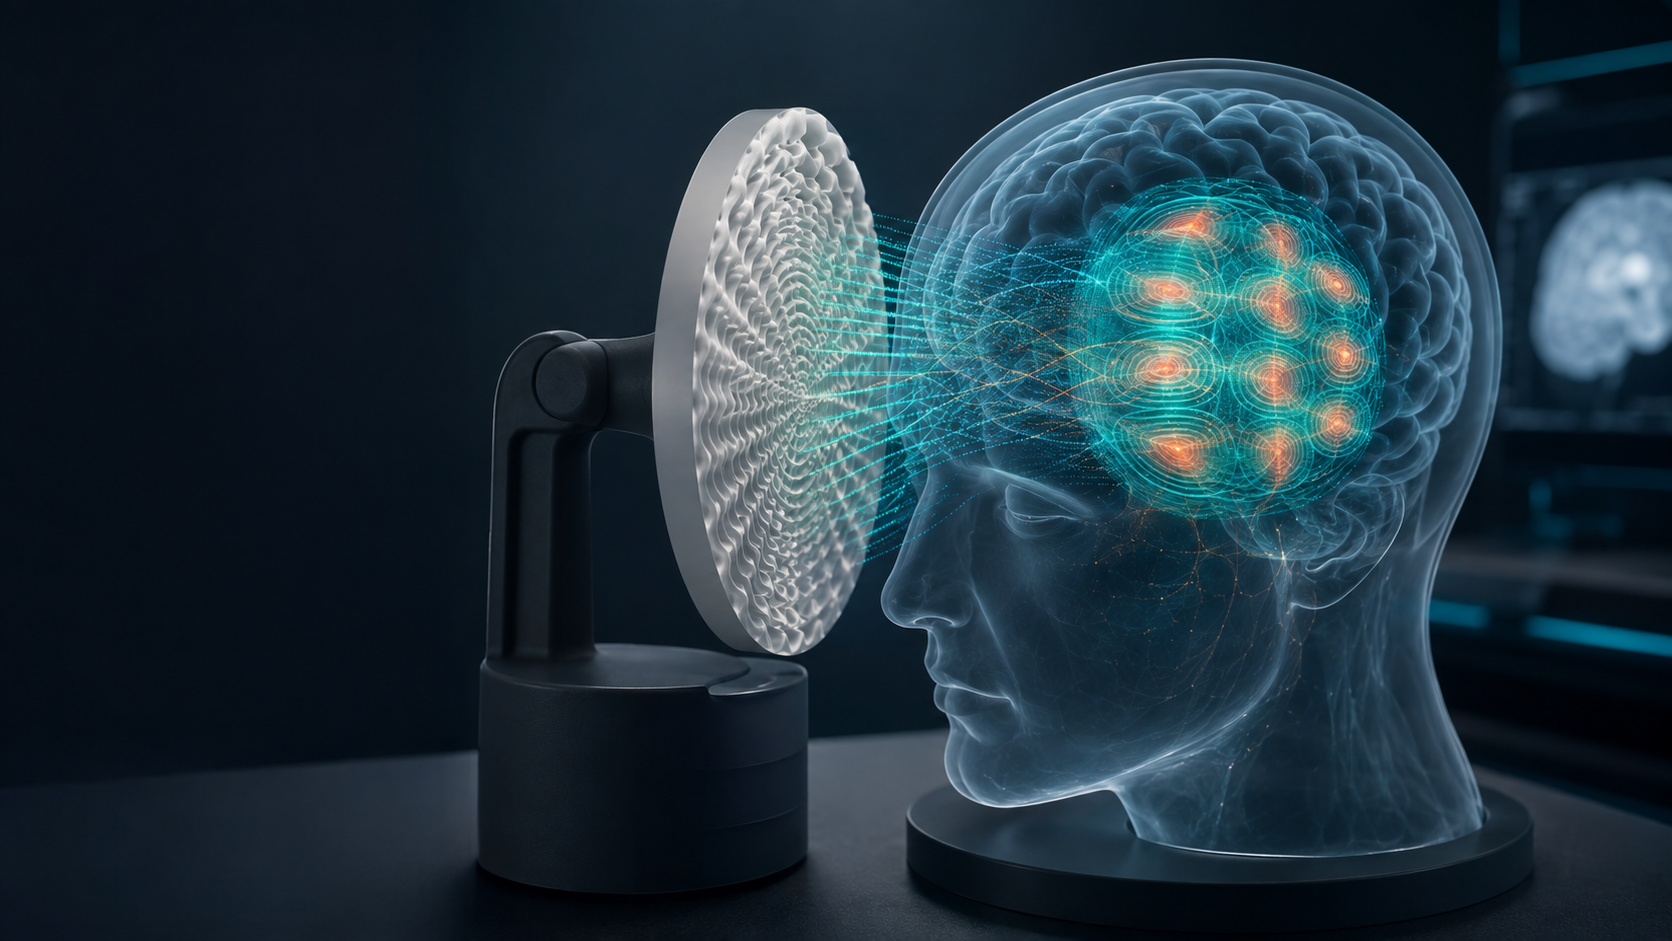
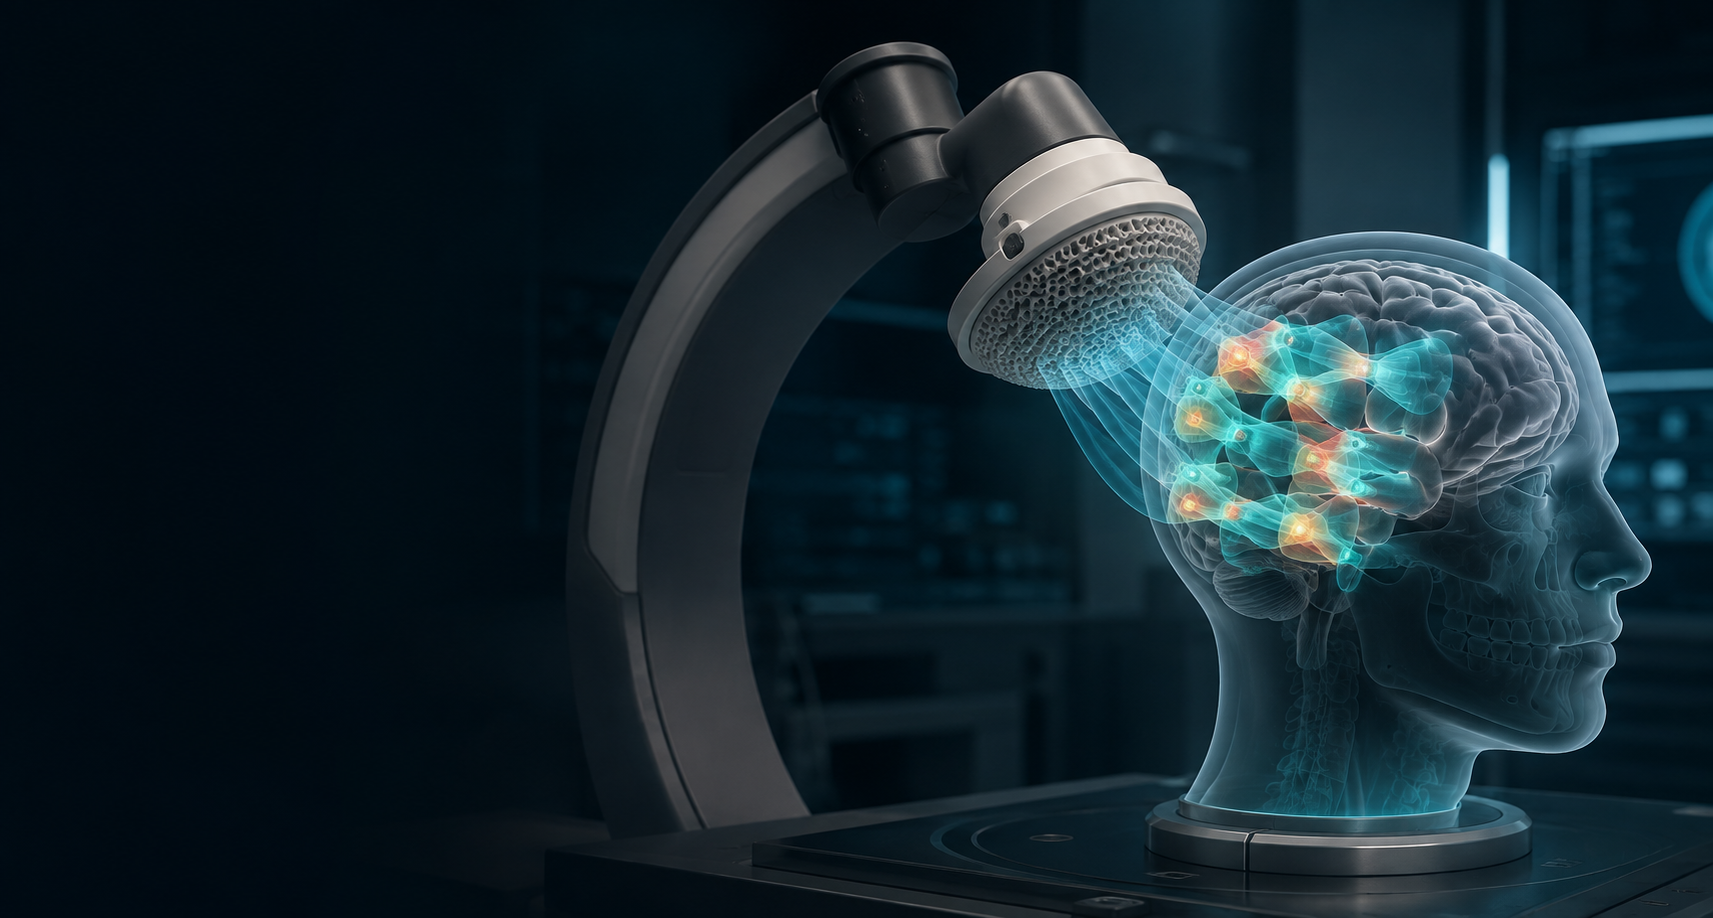
Add funding evidence and roadmap visuals

diff --git a/index.html b/index.html
@@ -72,6 +72,10 @@
             <p>of therapeutics may fail to effectively reach the brain because of the blood-brain barrier.</p>
           </div>
           <div>
+            <span class="metric">$5M+</span>
+            <p>in NIH and NSF funding has supported the scientific foundation behind the platform.</p>
+          </div>
+          <div>
             <span class="metric">Lens-led</span>
             <p>acoustic hologram architecture supports precise volumetric energy shaping.</p>
           </div>
@@ -123,6 +127,33 @@
             </p>
           </article>
         </div>
+        <figure class="platform-figure" aria-label="Schematic of lens-led holographic ultrasound workflow">
+          <svg viewBox="0 0 1100 360" role="img" aria-labelledby="platform-figure-title">
+            <title id="platform-figure-title">Acoustic hologram lens shapes distributed fields through the skull</title>
+            <defs>
+              <linearGradient id="fieldGradient" x1="0%" x2="100%" y1="0%" y2="0%">
+                <stop offset="0%" stop-color="#25c7ba" stop-opacity="0.12"></stop>
+                <stop offset="55%" stop-color="#25c7ba" stop-opacity="0.42"></stop>
+                <stop offset="100%" stop-color="#ff8a70" stop-opacity="0.52"></stop>
+              </linearGradient>
+            </defs>
+            <path class="arc" d="M110 302 C120 112 246 44 404 70"></path>
+            <rect class="module" x="78" y="254" width="126" height="58" rx="8"></rect>
+            <rect class="lens" x="326" y="72" width="48" height="216" rx="22"></rect>
+            <path class="lens-texture" d="M338 94 C356 128 340 156 360 190 C344 220 356 242 340 266"></path>
+            <path class="field" d="M374 116 C492 88 610 100 716 132 C618 164 502 174 374 162 Z"></path>
+            <path class="field" d="M374 178 C500 148 620 158 742 192 C624 224 506 230 374 216 Z"></path>
+            <path class="field" d="M374 236 C500 210 618 220 720 252 C604 288 492 288 374 274 Z"></path>
+            <ellipse class="head" cx="840" cy="184" rx="128" ry="150"></ellipse>
+            <ellipse class="brain" cx="830" cy="174" rx="86" ry="72"></ellipse>
+            <circle class="target" cx="778" cy="144" r="16"></circle>
+            <circle class="target" cx="842" cy="132" r="13"></circle>
+            <circle class="target" cx="882" cy="184" r="16"></circle>
+            <circle class="target" cx="814" cy="214" r="14"></circle>
+            <circle class="target" cx="858" cy="238" r="12"></circle>
+          </svg>
+          <figcaption>Acoustic lenses encode holographic fields that can be planned around distributed treatment volumes.</figcaption>
+        </figure>
       </section>
 
       <section id="evidence" class="evidence band">
@@ -134,9 +165,10 @@
           <div class="evidence-card">
             <strong>Validated components</strong>
             <p>
-              NIH- and NSF-supported work has demonstrated accurate transcranial targeting,
-              localized barrier opening, and enhanced therapeutic delivery in preclinical studies.
+              More than $5M in NIH- and NSF-supported work has advanced transcranial targeting,
+              localized barrier opening, and therapeutic delivery studies.
             </p>
+            <a href="https://pubmed.ncbi.nlm.nih.gov/31751231/" target="_blank" rel="noopener">Trans-skull focusing and imaging</a>
           </div>
           <div class="evidence-card">
             <strong>Protected platform</strong>
@@ -144,6 +176,7 @@
               The intellectual property portfolio includes issued U.S. patents and pending
               applications around ultrasound focusing, acoustic holograms, and ML control.
             </p>
+            <a href="https://patents.google.com/patent/US20240342511A1/en" target="_blank" rel="noopener">Acoustic hologram patent family</a>
           </div>
           <div class="evidence-card">
             <strong>Translational focus</strong>
@@ -151,7 +184,26 @@
               The current milestone is an integrated prototype for phantom, rodent, ex vivo
               skull, and large-animal validation on the path toward first-in-human readiness.
             </p>
+            <a href="https://pubmed.ncbi.nlm.nih.gov/39088497/" target="_blank" rel="noopener">Passive cavitation detection</a>
           </div>
+        </div>
+        <div class="publication-strip" aria-label="Selected publications">
+          <a href="https://pubmed.ncbi.nlm.nih.gov/23029240/" target="_blank" rel="noopener">
+            <span>Acoustic emissions monitoring</span>
+            <small>PLoS One, 2012</small>
+          </a>
+          <a href="https://pubmed.ncbi.nlm.nih.gov/31751231/" target="_blank" rel="noopener">
+            <span>Trans-skull focusing and imaging</span>
+            <small>IEEE TMI, 2020</small>
+          </a>
+          <a href="https://pubmed.ncbi.nlm.nih.gov/39271721/" target="_blank" rel="noopener">
+            <span>Microbubble dynamics in brain vessels</span>
+            <small>Nature Communications, 2024</small>
+          </a>
+          <a href="https://pubmed.ncbi.nlm.nih.gov/39088497/" target="_blank" rel="noopener">
+            <span>Passive cavitation detection</span>
+            <small>IEEE TUFFC, 2024</small>
+          </a>
         </div>
       </section>
 
@@ -178,6 +230,33 @@
             <p>Collaborate with translational research centers, academic labs, and CNS therapeutic developers.</p>
           </li>
         </ol>
+        <figure class="roadmap-figure" aria-label="Roadmap figure from prototype to partner deployment">
+          <svg viewBox="0 0 1100 300" role="img" aria-labelledby="roadmap-figure-title">
+            <title id="roadmap-figure-title">Integrated development roadmap</title>
+            <path class="road-path" d="M90 154 H312 C380 154 382 82 456 82 H676 C744 82 746 222 824 222 H1010"></path>
+            <g class="node" transform="translate(110 154)">
+              <circle r="28"></circle>
+              <text y="6">1</text>
+            </g>
+            <g class="node" transform="translate(456 82)">
+              <circle r="28"></circle>
+              <text y="6">2</text>
+            </g>
+            <g class="node" transform="translate(824 222)">
+              <circle r="28"></circle>
+              <text y="6">3</text>
+            </g>
+            <g class="node" transform="translate(990 222)">
+              <circle r="28"></circle>
+              <text y="6">4</text>
+            </g>
+            <text class="road-label" x="72" y="112">integrated prototype</text>
+            <text class="road-label" x="390" y="42">validation package</text>
+            <text class="road-label" x="740" y="184">regulatory strategy</text>
+            <text class="road-label" x="894" y="270">partner studies</text>
+          </svg>
+          <figcaption>Near-term work connects engineering integration, validation evidence, regulatory planning, and partner studies.</figcaption>
+        </figure>
       </section>
 
       <section id="contact" class="contact">

diff --git a/styles.css b/styles.css
@@ -217,9 +217,9 @@ h3 {
 .hero-panel {
   position: relative;
   z-index: 1;
-  width: min(100%, 720px);
+  width: min(100%, 980px);
   display: grid;
-  grid-template-columns: repeat(2, minmax(0, 1fr));
+  grid-template-columns: repeat(3, minmax(0, 1fr));
   gap: 1px;
   margin-top: 3rem;
   background: var(--line);
@@ -339,6 +339,83 @@ footer {
   color: #4d5d5f;
 }
 
+.platform-figure,
+.roadmap-figure {
+  width: min(100%, var(--max));
+  margin: 1.2rem auto 0;
+  padding: clamp(1rem, 3vw, 1.6rem);
+  background: #ffffff;
+  border: 1px solid rgba(19, 33, 36, 0.12);
+  border-radius: var(--radius);
+  box-shadow: 0 12px 40px rgba(41, 54, 50, 0.08);
+}
+
+.platform-figure svg,
+.roadmap-figure svg {
+  display: block;
+  width: 100%;
+  height: auto;
+}
+
+figcaption {
+  margin-top: 0.8rem;
+  color: #5e6b6d;
+  font-size: 0.92rem;
+  line-height: 1.55;
+}
+
+.arc,
+.road-path {
+  fill: none;
+  stroke: #132124;
+  stroke-linecap: round;
+  stroke-width: 18;
+  opacity: 0.82;
+}
+
+.module {
+  fill: #132124;
+}
+
+.lens {
+  fill: #e9ece8;
+  stroke: #9da9a8;
+  stroke-width: 4;
+}
+
+.lens-texture {
+  fill: none;
+  stroke: #0b8179;
+  stroke-width: 5;
+  stroke-linecap: round;
+  opacity: 0.7;
+}
+
+.field {
+  fill: url("#fieldGradient");
+  stroke: #25c7ba;
+  stroke-width: 2;
+  opacity: 0.86;
+}
+
+.head {
+  fill: rgba(37, 199, 186, 0.07);
+  stroke: #5f8f92;
+  stroke-width: 5;
+}
+
+.brain {
+  fill: rgba(37, 199, 186, 0.15);
+  stroke: #25c7ba;
+  stroke-width: 3;
+}
+
+.target {
+  fill: #ff8a70;
+  stroke: #e1c66b;
+  stroke-width: 4;
+}
+
 .evidence {
   color: var(--ink);
 }
@@ -353,6 +430,55 @@ footer {
   margin-bottom: 1rem;
   color: var(--cyan);
   font-size: 1.05rem;
+}
+
+.evidence-card a {
+  display: inline-flex;
+  margin-top: 0.8rem;
+  color: var(--teal);
+  font-weight: 800;
+  text-decoration: underline;
+  text-underline-offset: 0.24em;
+}
+
+.publication-strip {
+  width: min(100%, var(--max));
+  display: grid;
+  grid-template-columns: repeat(4, minmax(0, 1fr));
+  gap: 1px;
+  margin: 1rem auto 0;
+  background: var(--line);
+  border: 1px solid var(--line);
+}
+
+.publication-strip a {
+  min-height: 132px;
+  padding: 1.1rem;
+  background: #071114;
+  transition: background 160ms ease, transform 160ms ease;
+}
+
+.publication-strip a:hover,
+.publication-strip a:focus-visible {
+  background: #0e2227;
+  transform: translateY(-2px);
+}
+
+.publication-strip span,
+.publication-strip small {
+  display: block;
+}
+
+.publication-strip span {
+  color: var(--ink);
+  font-weight: 800;
+  line-height: 1.35;
+}
+
+.publication-strip small {
+  margin-top: 0.8rem;
+  color: var(--quiet);
+  font-size: 0.82rem;
 }
 
 .timeline {
@@ -377,6 +503,34 @@ footer {
   margin-bottom: 2.4rem;
   color: #132124;
   font-size: 1.1rem;
+  font-weight: 800;
+}
+
+.roadmap-figure {
+  margin-top: 1rem;
+}
+
+.roadmap-figure .road-path {
+  stroke-width: 10;
+  stroke: #0b8179;
+}
+
+.node circle {
+  fill: #132124;
+  stroke: #ff8a70;
+  stroke-width: 5;
+}
+
+.node text {
+  fill: #ffffff;
+  font-size: 1.4rem;
+  font-weight: 800;
+  text-anchor: middle;
+}
+
+.road-label {
+  fill: #4d5d5f;
+  font-size: 1rem;
   font-weight: 800;
 }
 
@@ -441,7 +595,8 @@ footer p {
   .section-grid,
   .pillar-grid,
   .evidence-grid,
-  .timeline {
+  .timeline,
+  .publication-strip {
     grid-template-columns: 1fr;
   }
 
